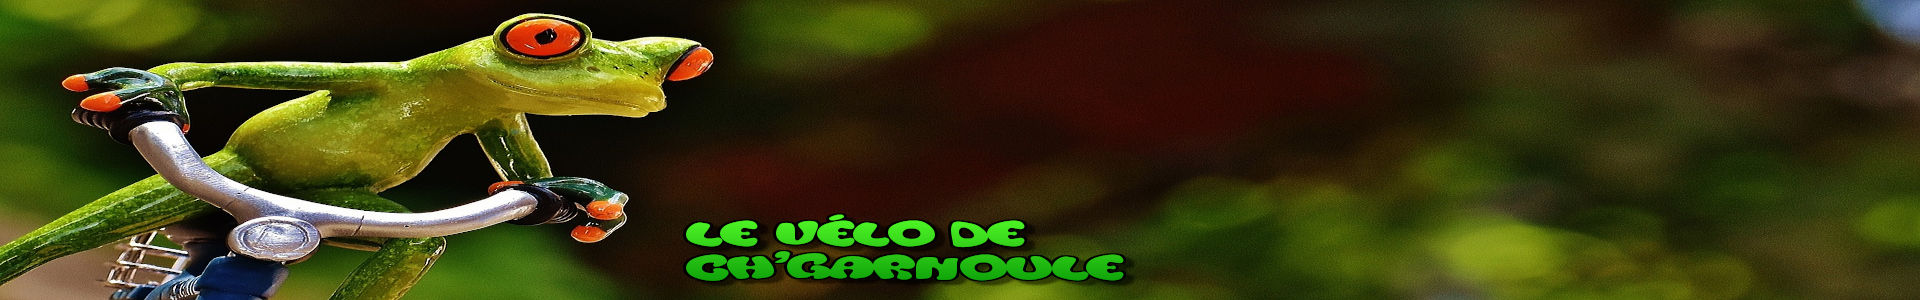
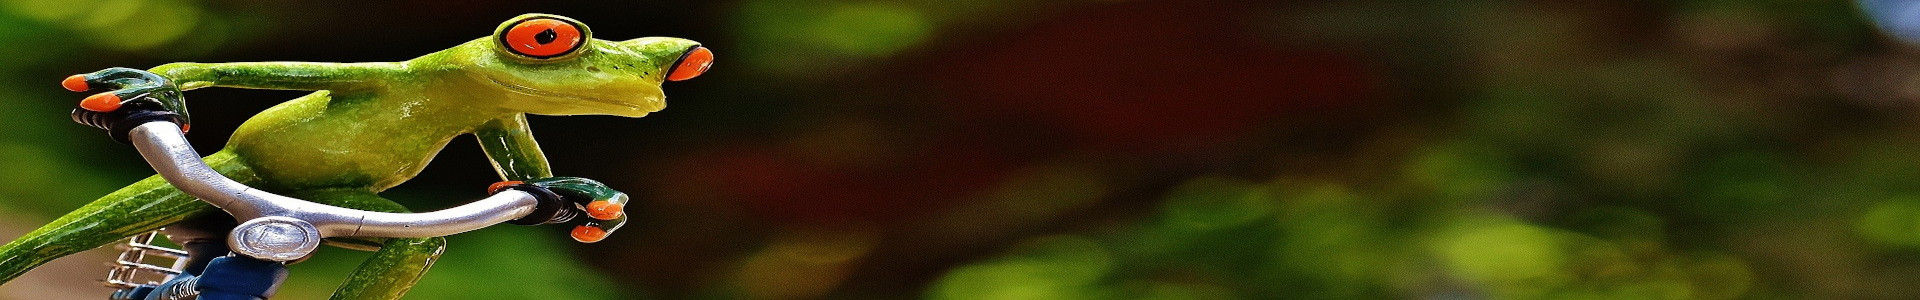
mise à jour page accueil

diff --git a/index.html b/index.html
@@ -1,5 +1,6 @@
 <!doctype html>
 <html lang="fr">
+
 <head>
     <title>Location de vélo</title>
     <!-- Required meta tags -->
@@ -8,54 +9,86 @@
 
     <!-- Bootstrap CSS -->
     <link rel="stylesheet" href="https://stackpath.bootstrapcdn.com/bootstrap/4.3.1/css/bootstrap.min.css"
-          integrity="sha384-ggOyR0iXCbMQv3Xipma34MD+dH/1fQ784/j6cY/iJTQUOhcWr7x9JvoRxT2MZw1T" crossorigin="anonymous">
+        integrity="sha384-ggOyR0iXCbMQv3Xipma34MD+dH/1fQ784/j6cY/iJTQUOhcWr7x9JvoRxT2MZw1T" crossorigin="anonymous">
 
     <!-- CSS Accueil -->
     <link rel="stylesheet" href="libs/css/accueil.css">
 
 
 </head>
+
 <body>
 
-<div class="container-fluid">
-    <div class="row">
+    <div class="container-fluid">
+        <div class="row fond-header">
+            <div class="col text-right">
+                <img src="libs/img/logo.png" class="img-fluid">
+            </div>
+            <div class="col">
+                <nav class="navbar navbar-expand-lg navbar-light">
+                    <button class="navbar-toggler" type="button" data-toggle="collapse" data-target="#navbarNavDropdown"
+                        aria-controls="navbarNavDropdown" aria-expanded="false" aria-label="Toggle navigation">
+                        <span class="navbar-toggler-icon"></span>
+                    </button>
+                    <div class="collapse navbar-collapse justify-content-end" id="navbarNavDropdown">
+                        <ul class="navbar-nav">
+                            <li class="nav-item active">
+                                <a class="nav-link" href="#">Accueil <span class="sr-only">(current)</span></a>
+                            </li>
+                            <li class="nav-item">
+                                <a class="nav-link" href="#">Connexion</a>
+                            </li>
+                            <li class="nav-item">
+                                <a class="nav-link" href="#">Panier</a>
+                            </li>
 
-        <div class="col">
-            <nav class="navbar navbar-expand-lg navbar-light w-25" >
-
-                <div class="collapse navbar-collapse" id="navbarNav">
-                    <ul class="navbar-nav">
-                        <li class="nav-item active">
-                            <a class="nav-link" href="#">Accueil <span class="sr-only">(current)</span></a>
-                        </li>
-                        <li class="nav-item">
-                            <a class="nav-link" href="#">Connexion</a>
-                        </li>
-                        <li class="nav-item">
-                            <a class="nav-link" href="#">Panier</a>
-                        </li>
-
-                    </ul>
-                </div>
-            </nav>
+                        </ul>
+                    </div>
+                </nav>
+            </div>
         </div>
     </div>
 
-</div>
+    <section class="container-fluid corps-index">
+        <div class="row justify-content-center pb-5">
+            <div class="col col-sm-4 mb-3">
+                <div class="card text-center shadow mx-auto vignette">
+                    <img src="libs/img/velo-classique.jpg" class="card-img-top" alt="...">
+                    <div class="card-body">
+                        <h2 class="card-text">Vélo classique</h2>
+                    </div>
+                </div>
+            </div>
+            <div class="col col-sm-4">
+                <div class="card text-center shadow mx-auto vignette">
+                    <img src="libs/img/velo-electrique.jpg" class="card-img-top" alt="...">
+                    <div class="card-body">
+                        <h2 class="card-text">Vélo electrique</h2>
+                    </div>
+                </div>
+            </div>
+        </div>
+    </section>
+
+    <footer class="container-fluid">
+        <div class="row">
+            <h1>FOOTER</h1>
+        </div>
+    </footer>
 
 
-<!-- Optional JavaScript -->
-<!-- jQuery first, then Popper.js, then Bootstrap JS -->
-<script src="https://code.jquery.com/jquery-3.3.1.slim.min.js"
+
+    <!-- Optional JavaScript -->
+    <!-- jQuery first, then Popper.js, then Bootstrap JS -->
+    <script src="https://code.jquery.com/jquery-3.3.1.slim.min.js"
         integrity="sha384-q8i/X+965DzO0rT7abK41JStQIAqVgRVzpbzo5smXKp4YfRvH+8abtTE1Pi6jizo"
         crossorigin="anonymous"></script>
-<script src="https://cdnjs.cloudflare.com/ajax/libs/popper.js/1.14.7/umd/popper.min.js"
+    <script src="https://cdnjs.cloudflare.com/ajax/libs/popper.js/1.14.7/umd/popper.min.js"
         integrity="sha384-UO2eT0CpHqdSJQ6hJty5KVphtPhzWj9WO1clHTMGa3JDZwrnQq4sF86dIHNDz0W1"
         crossorigin="anonymous"></script>
-<script src="https://stackpath.bootstrapcdn.com/bootstrap/4.3.1/js/bootstrap.min.js"
+    <script src="https://stackpath.bootstrapcdn.com/bootstrap/4.3.1/js/bootstrap.min.js"
         integrity="sha384-JjSmVgyd0p3pXB1rRibZUAYoIIy6OrQ6VrjIEaFf/nJGzIxFDsf4x0xIM+B07jRM"
         crossorigin="anonymous"></script>
 </body>
+
 </html>
-
-

diff --git a/libs/css/accueil.css b/libs/css/accueil.css
@@ -1,5 +1,38 @@
 body {
-    background: url("../../libs/img/banniere-header.jpg") no-repeat;
     margin: auto;
     padding: 0;
 }
+
+.fond-header {
+    background: url('../../libs/img/banniere-header.jpg') no-repeat, #CDDED2!important;
+    height: 400px;
+    background-size: cover;
+}
+.navbar-nav a {
+    font-size: 1.5em;
+    color: #94B52B!important;
+    text-shadow: 1px 1px 1px black;
+    
+}
+
+.navbar-nav a:hover {
+    color: #CDDED2!important;
+    text-decoration: underline;
+}
+
+.corps-index {
+    background-color: #cdded2;
+}
+
+.vignette {
+    border-radius: 20px;
+}
+
+.vignette img:hover {
+    opacity: 0.8;
+}
+
+footer {
+    background: #94B52B;
+}
+
